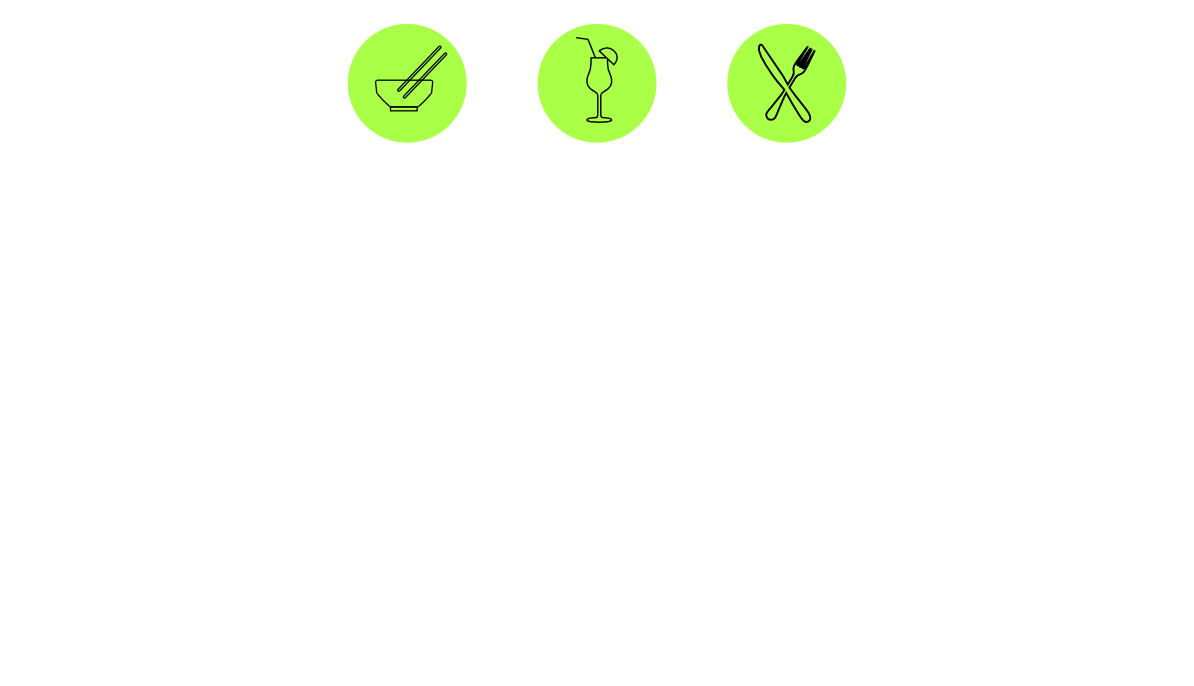
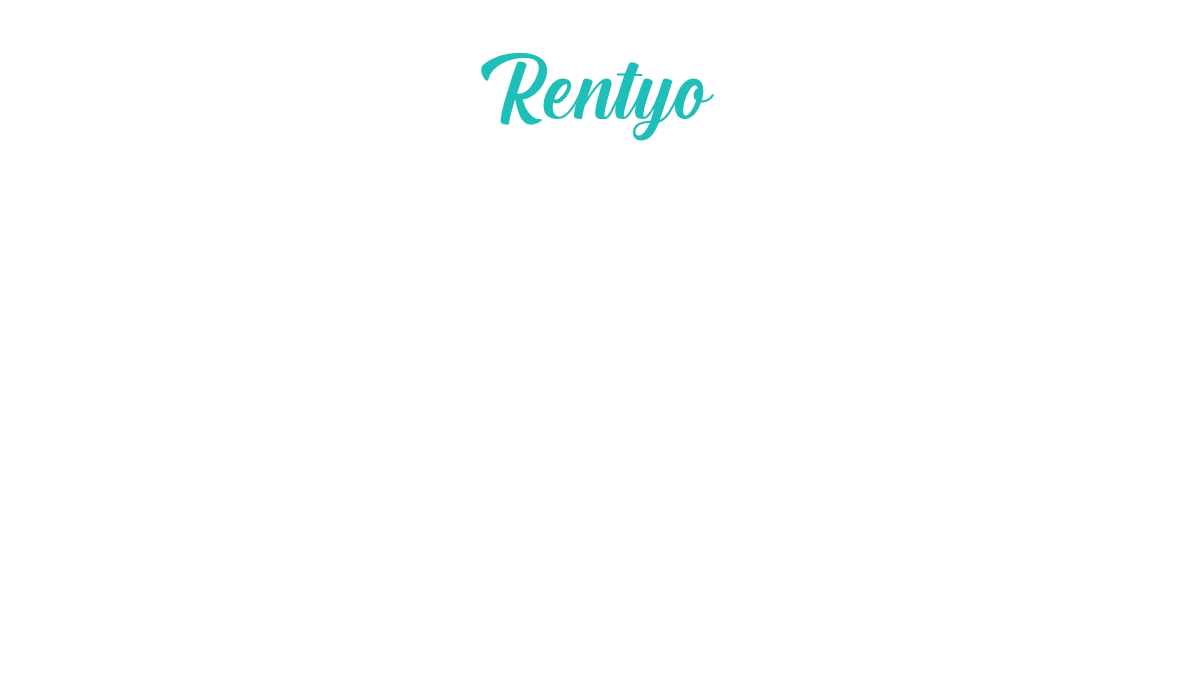
POPRAVEK

Changed region(s): [[0.2789, 0.0306, 0.7127, 0.2143]]

diff --git a/Public/index.html b/Public/index.html
@@ -1810,12 +1810,21 @@
 </head>
 
 <body>
-  <header class="glava">
-    <div class="logotip">
-      <a href="#">
-        <img src="Logo Rentyo gourmet.png" alt="Logotip Rentyo Gourmet" />
-      </a>
+ <header class="glava">
+<div class="logotip">
+    <a href="#" id="map-icon-link" class="icon-link">
+        <i class="fas fa-map-marked-alt map-icon" aria-label="Prikaži zemljevid"></i>
+        </a>
+</div>
+
+<div id="map-modal" class="map-overlay">
+    <div class="map-content">
+        <button id="close-map-btn" class="close-btn">&times;</button>
+        <div id="large-map-container">
+            <p style="text-align: center; padding-top: 50px;">Tukaj bo velik, interaktivni zemljevid.</p>
+        </div>
     </div>
+</div>
     
     <div class="akcije" id="desktopAkcije"> 
       <a href="#" id="odpriPrijavoDesktop" class="gumb-prijava" data-i18n="header.login">
@@ -3814,8 +3823,43 @@ document.addEventListener('DOMContentLoaded', () => {
           minDate: "today",
         });
     }
+    
+    // =========================================================
+    // X. LOGIKA ZA ZEMLJEVID (MAP MODAL) - VKLJUČENO TUKAJ!
+    // =========================================================
+    const mapIcon = document.getElementById('map-icon-link');
+    const mapModal = document.getElementById('map-modal');
+    const closeBtn = document.getElementById('close-map-btn');
+
+    // 1. Odpiranje modalnega okna ob kliku na ikono
+    if (mapIcon && mapModal) {
+        mapIcon.addEventListener('click', function(e) {
+            e.preventDefault(); // Prepreči skok na vrh strani
+            mapModal.style.display = "block";
+            console.log("Modalno okno z zemljevidom odprto.");
+        });
+    }
+
+    // 2. Zapiranje modalnega okna ob kliku na gumb 'X'
+    if (closeBtn && mapModal) {
+        closeBtn.addEventListener('click', function() {
+            mapModal.style.display = "none";
+            console.log("Modalno okno z zemljevidom zaprto.");
+        });
+    }
+
+    // 3. Zapiranje modalnega okna ob kliku izven vsebine (na temno ozadje)
+    if (mapModal) {
+        window.addEventListener('click', function(event) {
+            if (event.target === mapModal) {
+                mapModal.style.display = "none";
+                console.log("Modalno okno z zemljevidom zaprto (klik izven).");
+            }
+        });
+    }
 
 }); // Konec glavnega DOMContentLoaded bloka
+
 
 // Pomožna funkcija za vrnitev na privzeto sekcijo
 function handlePrikaziPrivzete() {

diff --git a/Public/style.css b/Public/style.css
@@ -774,3 +774,69 @@ a:hover {
     /* To ustvari tanko sivo črto na dnu elementa */
     border-bottom: 1px solid #d1d5db; /* Svetlo siva barva (Tailwind's gray-300) */
 }
+/* Stilizacija ikone v glavi */
+.map-icon {
+    font-size: 2.5rem; /* Povečanje velikosti ikone */
+    color: var(--rmlk-modra); /* Uporaba vaše modre barve */
+    cursor: pointer;
+    transition: color 0.3s ease;
+    padding: 0 1rem; /* Dodajanje malo prostora okoli ikone */
+}
+
+.map-icon:hover {
+    color: #000;
+}
+
+/* Modalno okno/Prekrivni sloj za zemljevid */
+.map-overlay {
+    /* Skrito privzeto */
+    display: none; 
+    position: fixed; /* Ostane na mestu, ko se stran premika */
+    z-index: 1000; /* Zagotavlja, da je nad vsemi drugimi elementi */
+    left: 0;
+    top: 0;
+    width: 100%;
+    height: 100%;
+    overflow: auto; /* Omogoča premikanje, če je vsebina prevelika */
+    background-color: rgba(0,0,0,0.8); /* Temno ozadje z prosojnostjo */
+}
+
+/* Vsebina modalnega okna */
+.map-content {
+    background-color: #fefefe;
+    margin: 5% auto; /* 5% od zgoraj in centrirano horizontalno */
+    padding: 20px;
+    border: 1px solid #888;
+    width: 90%; /* Večja širina za zemljevid */
+    height: 85%;
+    position: relative;
+    border-radius: 8px;
+    box-shadow: 0 5px 15px rgba(0,0,0,0.3);
+}
+
+/* Gumb za zapiranje */
+.close-btn {
+    color: #aaa;
+    float: right;
+    font-size: 28px;
+    font-weight: bold;
+    background: none;
+    border: none;
+    cursor: pointer;
+    position: absolute; /* Postavitev v kot modalnega okna */
+    top: 10px;
+    right: 25px;
+}
+
+.close-btn:hover,
+.close-btn:focus {
+    color: #000;
+    text-decoration: none;
+    cursor: pointer;
+}
+
+#large-map-container {
+    width: 100%;
+    height: 95%; /* Zapolnitev večine modalnega okna */
+    /* Dodajte rob, če je potrebno, in poskrbite, da je zemljevid interaktiven. */
+}
